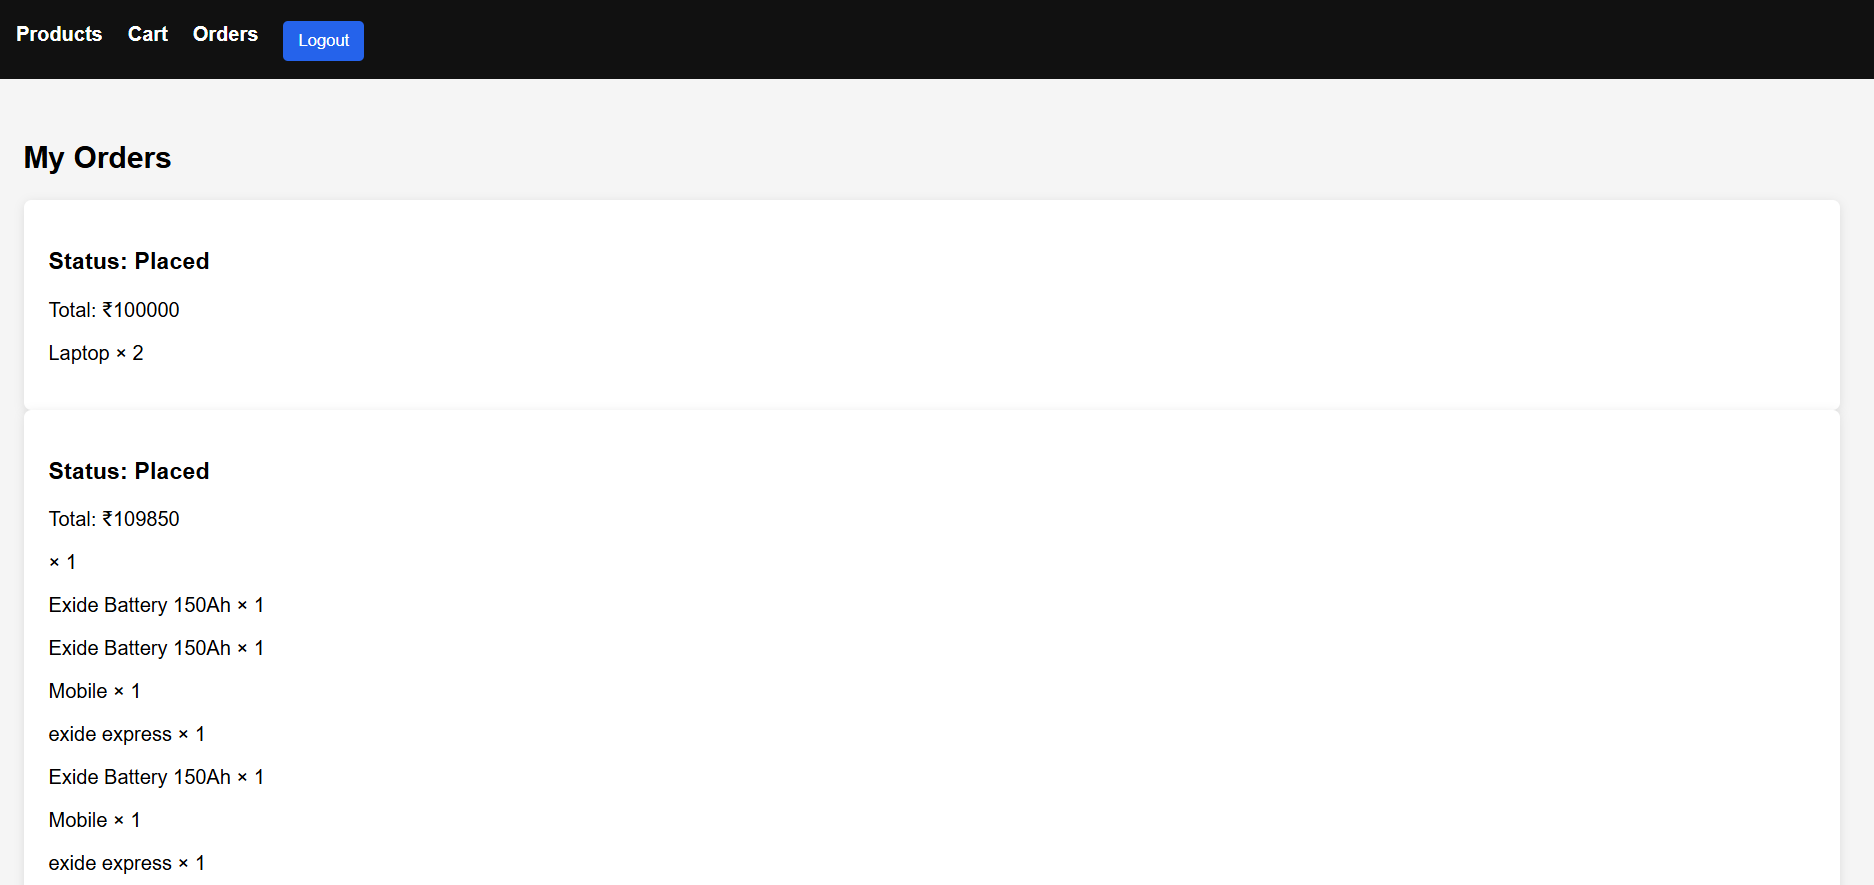
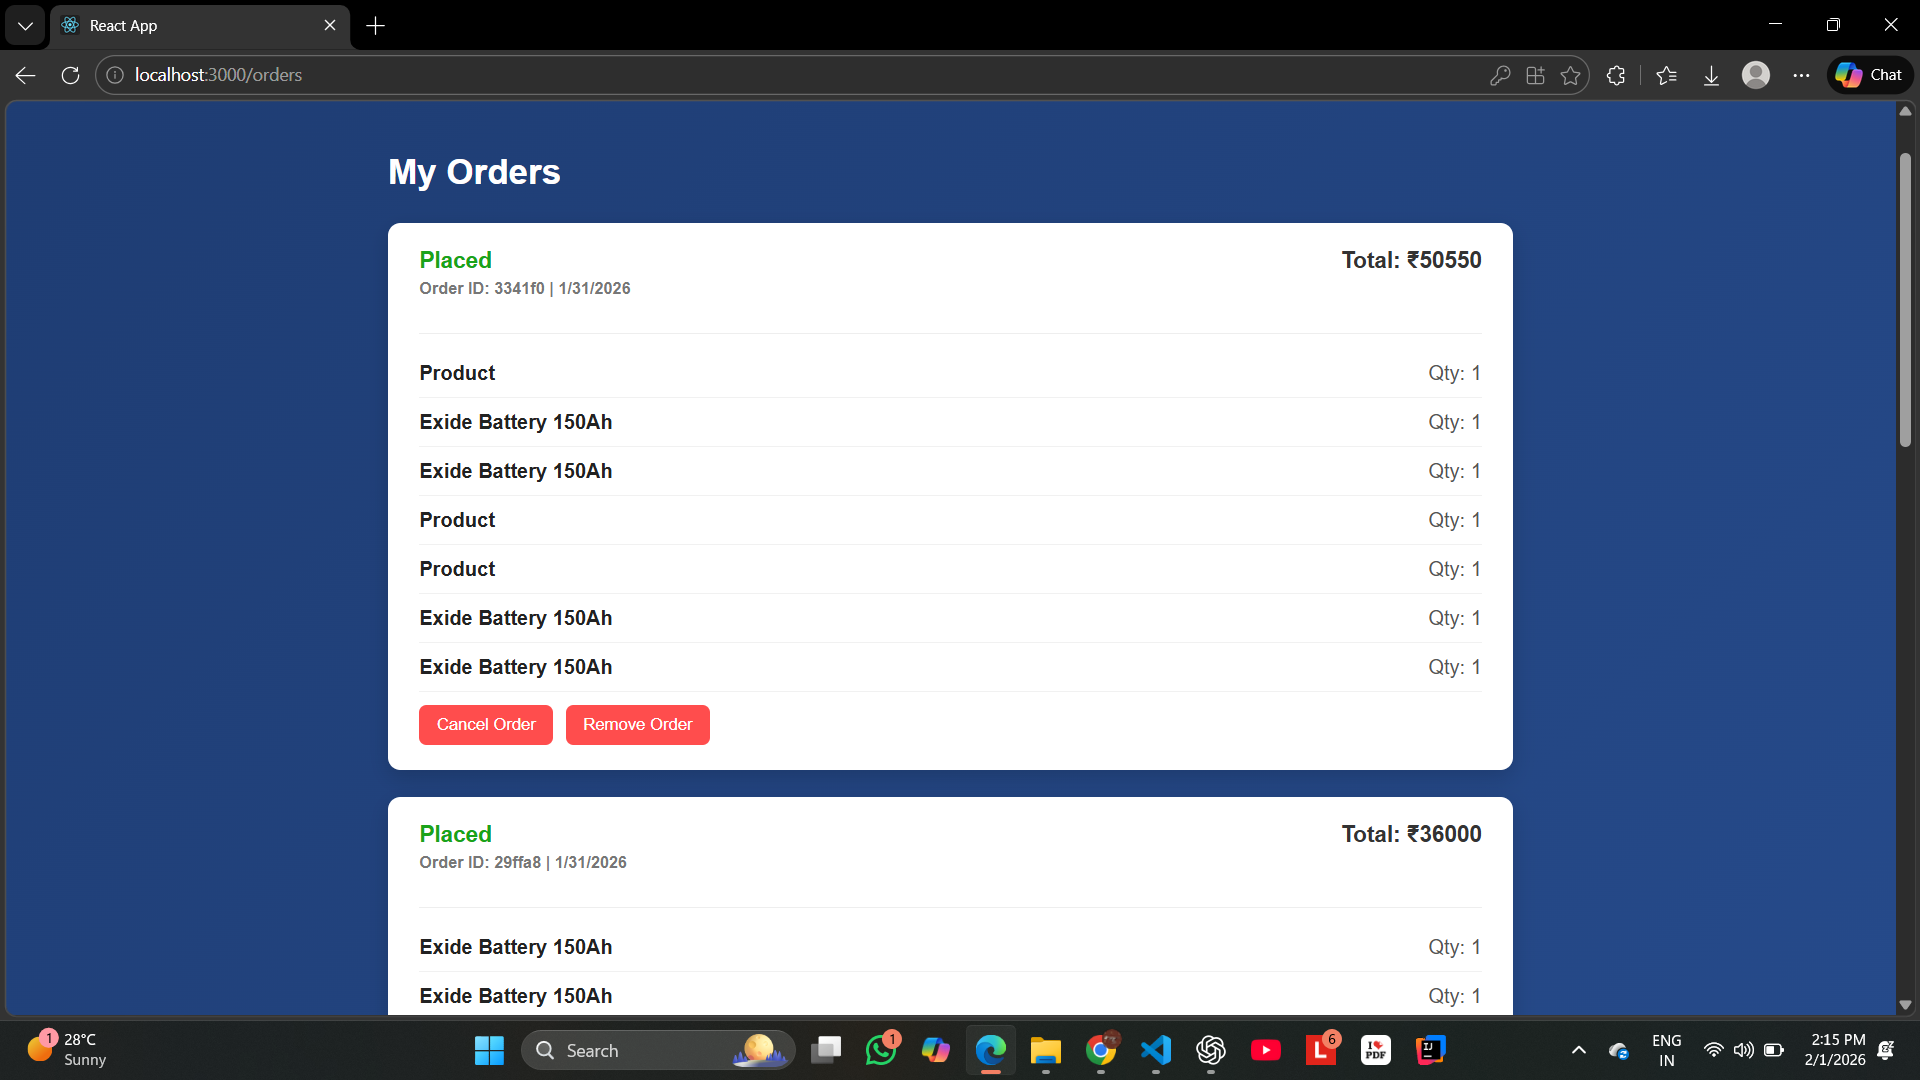
UI polish, orders cancel & remove, login styled

diff --git a/server/controllers/orderController.js b/server/controllers/orderController.js
@@ -1,49 +1,65 @@
 const Cart = require("../models/Cart");
 const Order = require("../models/Order");
 
+//PLACE ORDER (save productId)
 exports.placeOrder = async (req, res) => {
-  const cartItems = await Cart.find({ user: req.user.id }).populate("product");
+  try {
+    const cartItems = await Cart.find({ user: req.user.id });
 
-  if (cartItems.length === 0) {
-    return res.status(400).json({ message: "Cart is empty" });
-  }
+    if (!cartItems.length) {
+      return res.status(400).json({ message: "Cart is empty" });
+    }
 
-  const orderItems = cartItems.map(item => ({
-    product: item.product._id,
-    quantity: item.quantity,
-  }));
+    const orderItems = cartItems.map((item) => ({
+      product: item.product,      // ObjectId
+      quantity: item.quantity,
+    }));
 
-  const total = cartItems.reduce(
-    (sum, item) => sum + item.product.price * item.quantity,
-    0
-  );
+    const total = cartItems.reduce(
+      (sum, item) => sum + item.price * item.quantity,
+      0
+    );
 
-  const order = await Order.create({
-    user: req.user.id,
-    items: orderItems,
-    totalAmount: total,
-  });
+    const order = await Order.create({
+      user: req.user.id,
+      items: orderItems,
+      totalAmount: total,
+      status: "Placed",
+    });
 
-  // Clear cart after order
-  await Cart.deleteMany({ user: req.user.id });
+    await Cart.deleteMany({ user: req.user.id });
 
-  res.json(order);
-};
-
-exports.getMyOrders = async (req, res) => {
-  const orders = await Order.find({ user: req.user.id }).populate("items.product");
-  res.json(orders);
-};
-
-
-exports.updateOrderStatus = async (req, res) => {
-  const order = await Order.findById(req.params.id);
-
-  if (order) {
-    order.status = req.body.status;
-    await order.save();
     res.json(order);
-  } else {
-    res.status(404).json({ message: "Order not found" });
+  } catch (err) {
+    res.status(500).json({ message: err.message });
+  }
+};
+
+// ✅ GET MY ORDERS (populate product)
+exports.getMyOrders = async (req, res) => {
+  try {
+    const orders = await Order.find({ user: req.user.id })
+      .populate("items.product");   // ⭐ important
+
+    res.json(orders);
+  } catch (err) {
+    res.status(500).json({ message: err.message });
+  }
+};
+
+// ✅ ADMIN UPDATE STATUS (as is)
+exports.updateOrderStatus = async (req, res) => {
+  try {
+    const order = await Order.findById(req.params.id);
+
+    if (order) {
+      order.status = req.body.status;
+      await order.save();
+      res.json(order);
+    } else {
+      res.status(404).json({ message: "Order not found" });
+    }
+  } catch (err) {
+    res.status(500).json({ message: err.message });
   }
 };

diff --git a/server/routes/orderRoutes.js b/server/routes/orderRoutes.js
@@ -2,6 +2,7 @@ const express = require("express");
 const router = express.Router();
 const protect = require("../middleware/authMiddleware");
 const admin = require("../middleware/adminMiddleware");
+const Order = require("../models/Order");
 
 const {
   placeOrder,
@@ -11,6 +12,44 @@ const {
 
 router.post("/", protect, placeOrder);
 router.get("/", protect, getMyOrders);
+
+// ✅ DELETE
+router.delete("/:id", protect, async (req, res) => {
+  try {
+    const order = await Order.findById(req.params.id);
+
+    if (!order) return res.status(404).json({ message: "Order not found" });
+    if (order.user.toString() !== req.user.id)
+      return res.status(403).json({ message: "Not allowed" });
+
+    await order.deleteOne();
+    res.json({ message: "Order removed" });
+  } catch (err) {
+    res.status(500).json({ message: err.message });
+  }
+});
+
+// ✅ CANCEL (must be before /:id)
+router.put("/:id/cancel", protect, async (req, res) => {
+  try {
+    const order = await Order.findById(req.params.id);
+
+    if (!order) return res.status(404).json({ message: "Order not found" });
+    if (order.user.toString() !== req.user.id)
+      return res.status(403).json({ message: "Not allowed" });
+    if (order.status !== "Placed")
+      return res.status(400).json({ message: "Cannot cancel" });
+
+    order.status = "Cancelled";
+    await order.save();
+
+    res.json({ message: "Order cancelled" });
+  } catch (err) {
+    res.status(500).json({ message: err.message });
+  }
+});
+
+// ✅ ADMIN UPDATE (last)
 router.put("/:id", protect, admin, updateOrderStatus);
 
 module.exports = router;

diff --git a/server/routes/cartRoutes.js b/server/routes/cartRoutes.js
@@ -1,9 +1,20 @@
 const express = require("express");
 const router = express.Router();
 const protect = require("../middleware/authMiddleware");
+const Cart = require("../models/Cart");
 const { addToCart, getUserCart } = require("../controllers/cartController");
 
 router.post("/", protect, addToCart);
 router.get("/", protect, getUserCart);
+
+// ✅ REAL REMOVE (DB मधून)
+router.delete("/remove/:id", protect, async (req, res) => {
+  try {
+    await Cart.findByIdAndDelete(req.params.id);
+    res.json({ message: "Removed from cart" });
+  } catch (err) {
+    res.status(500).json({ message: err.message });
+  }
+});
 
 module.exports = router;
